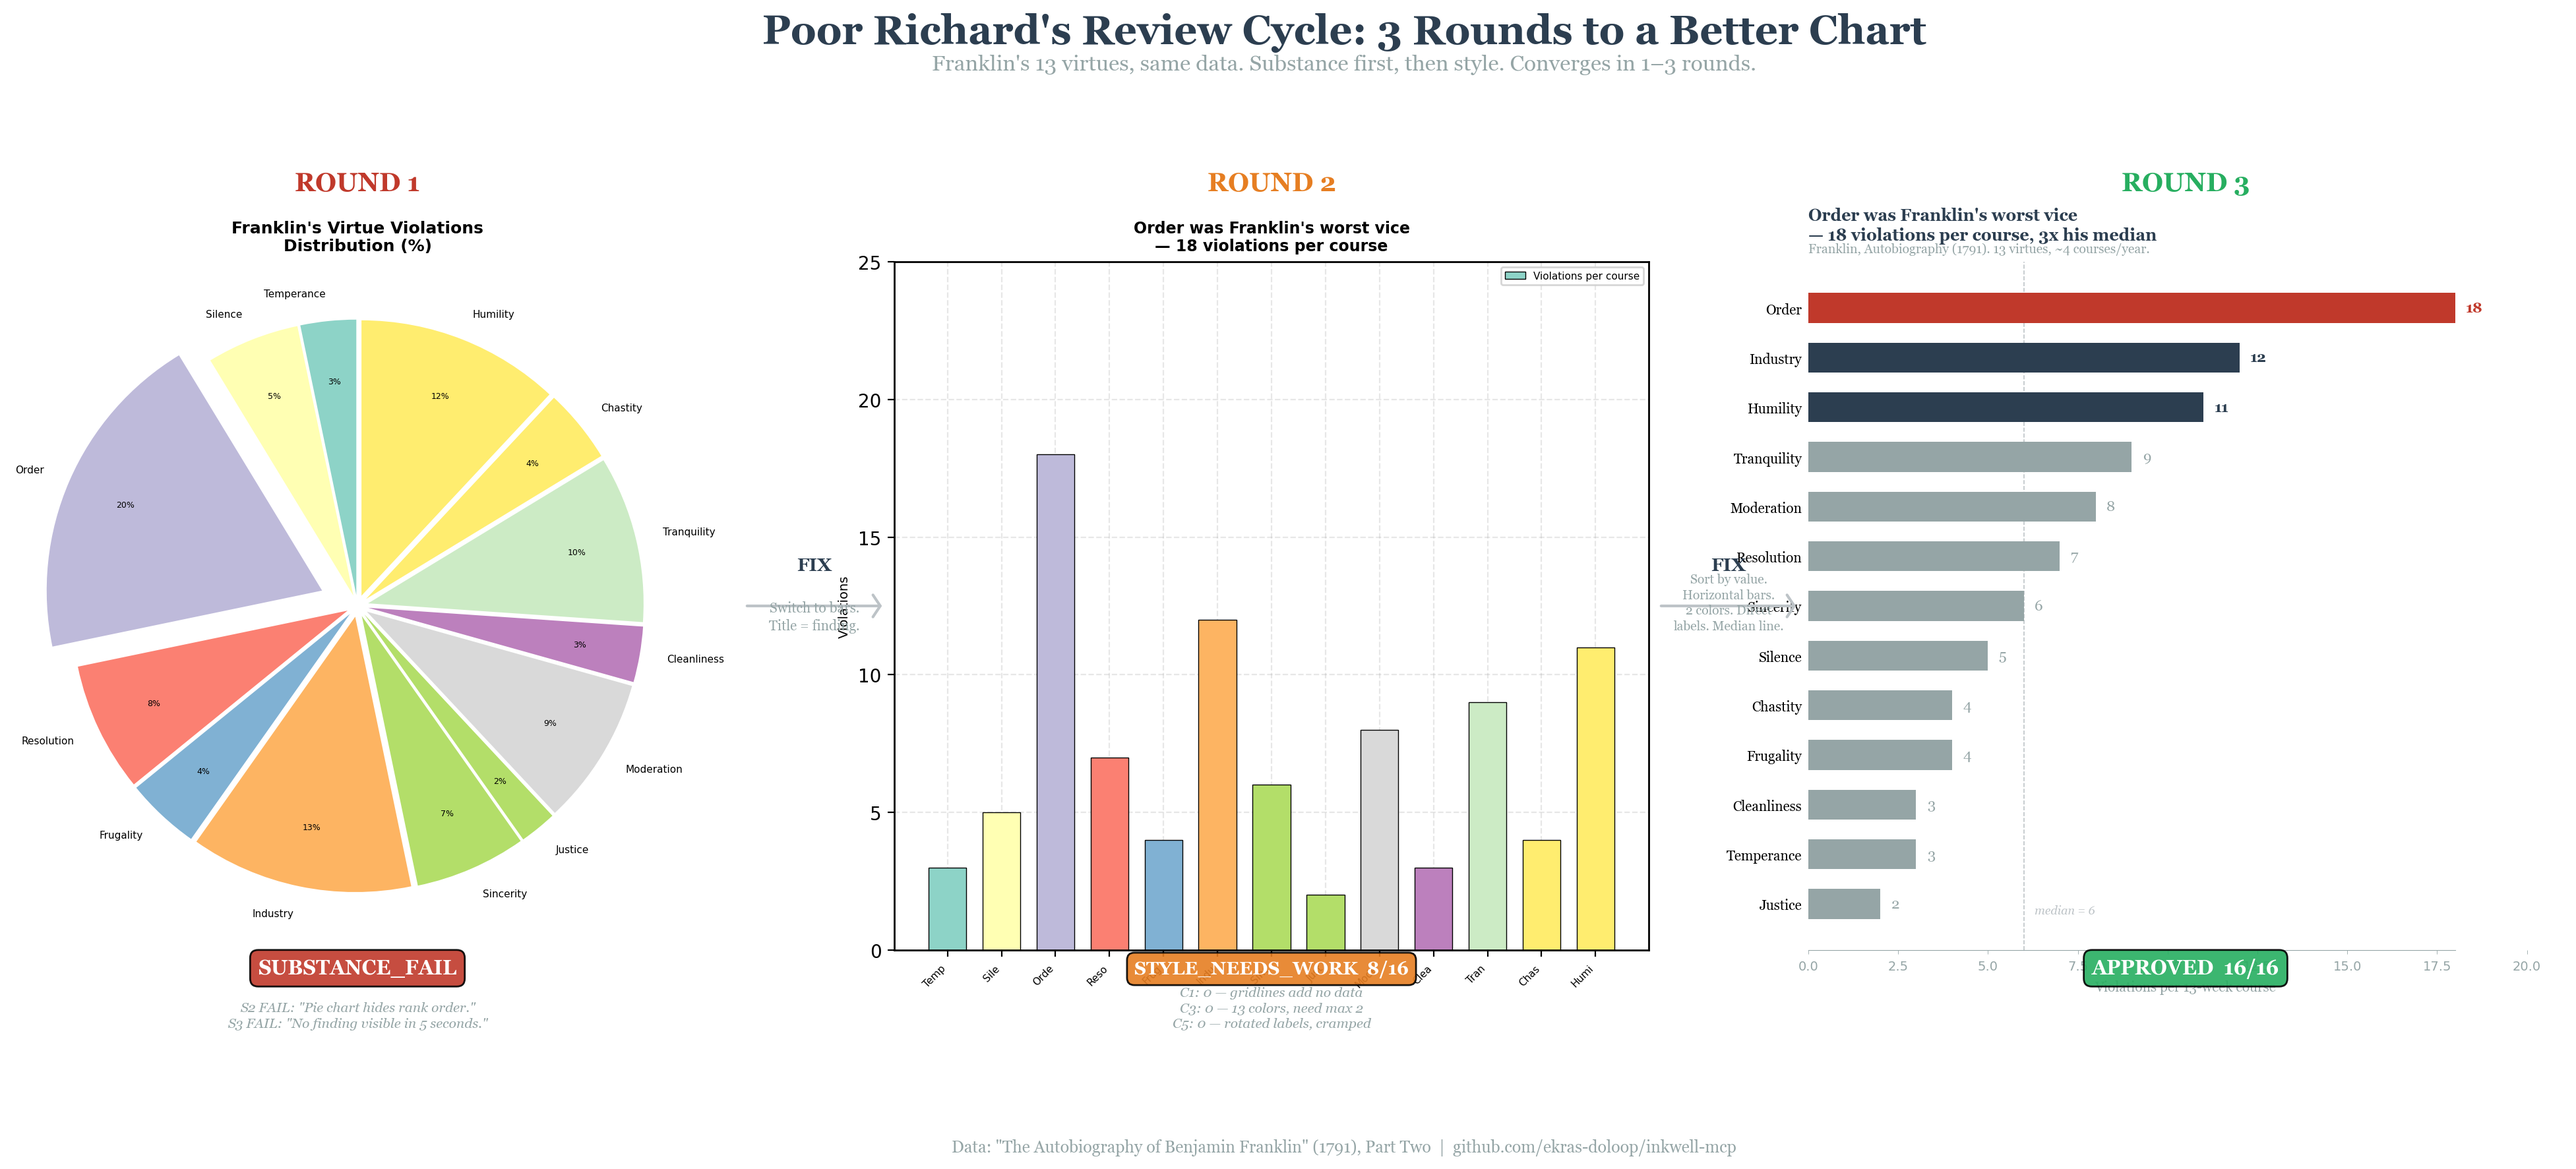
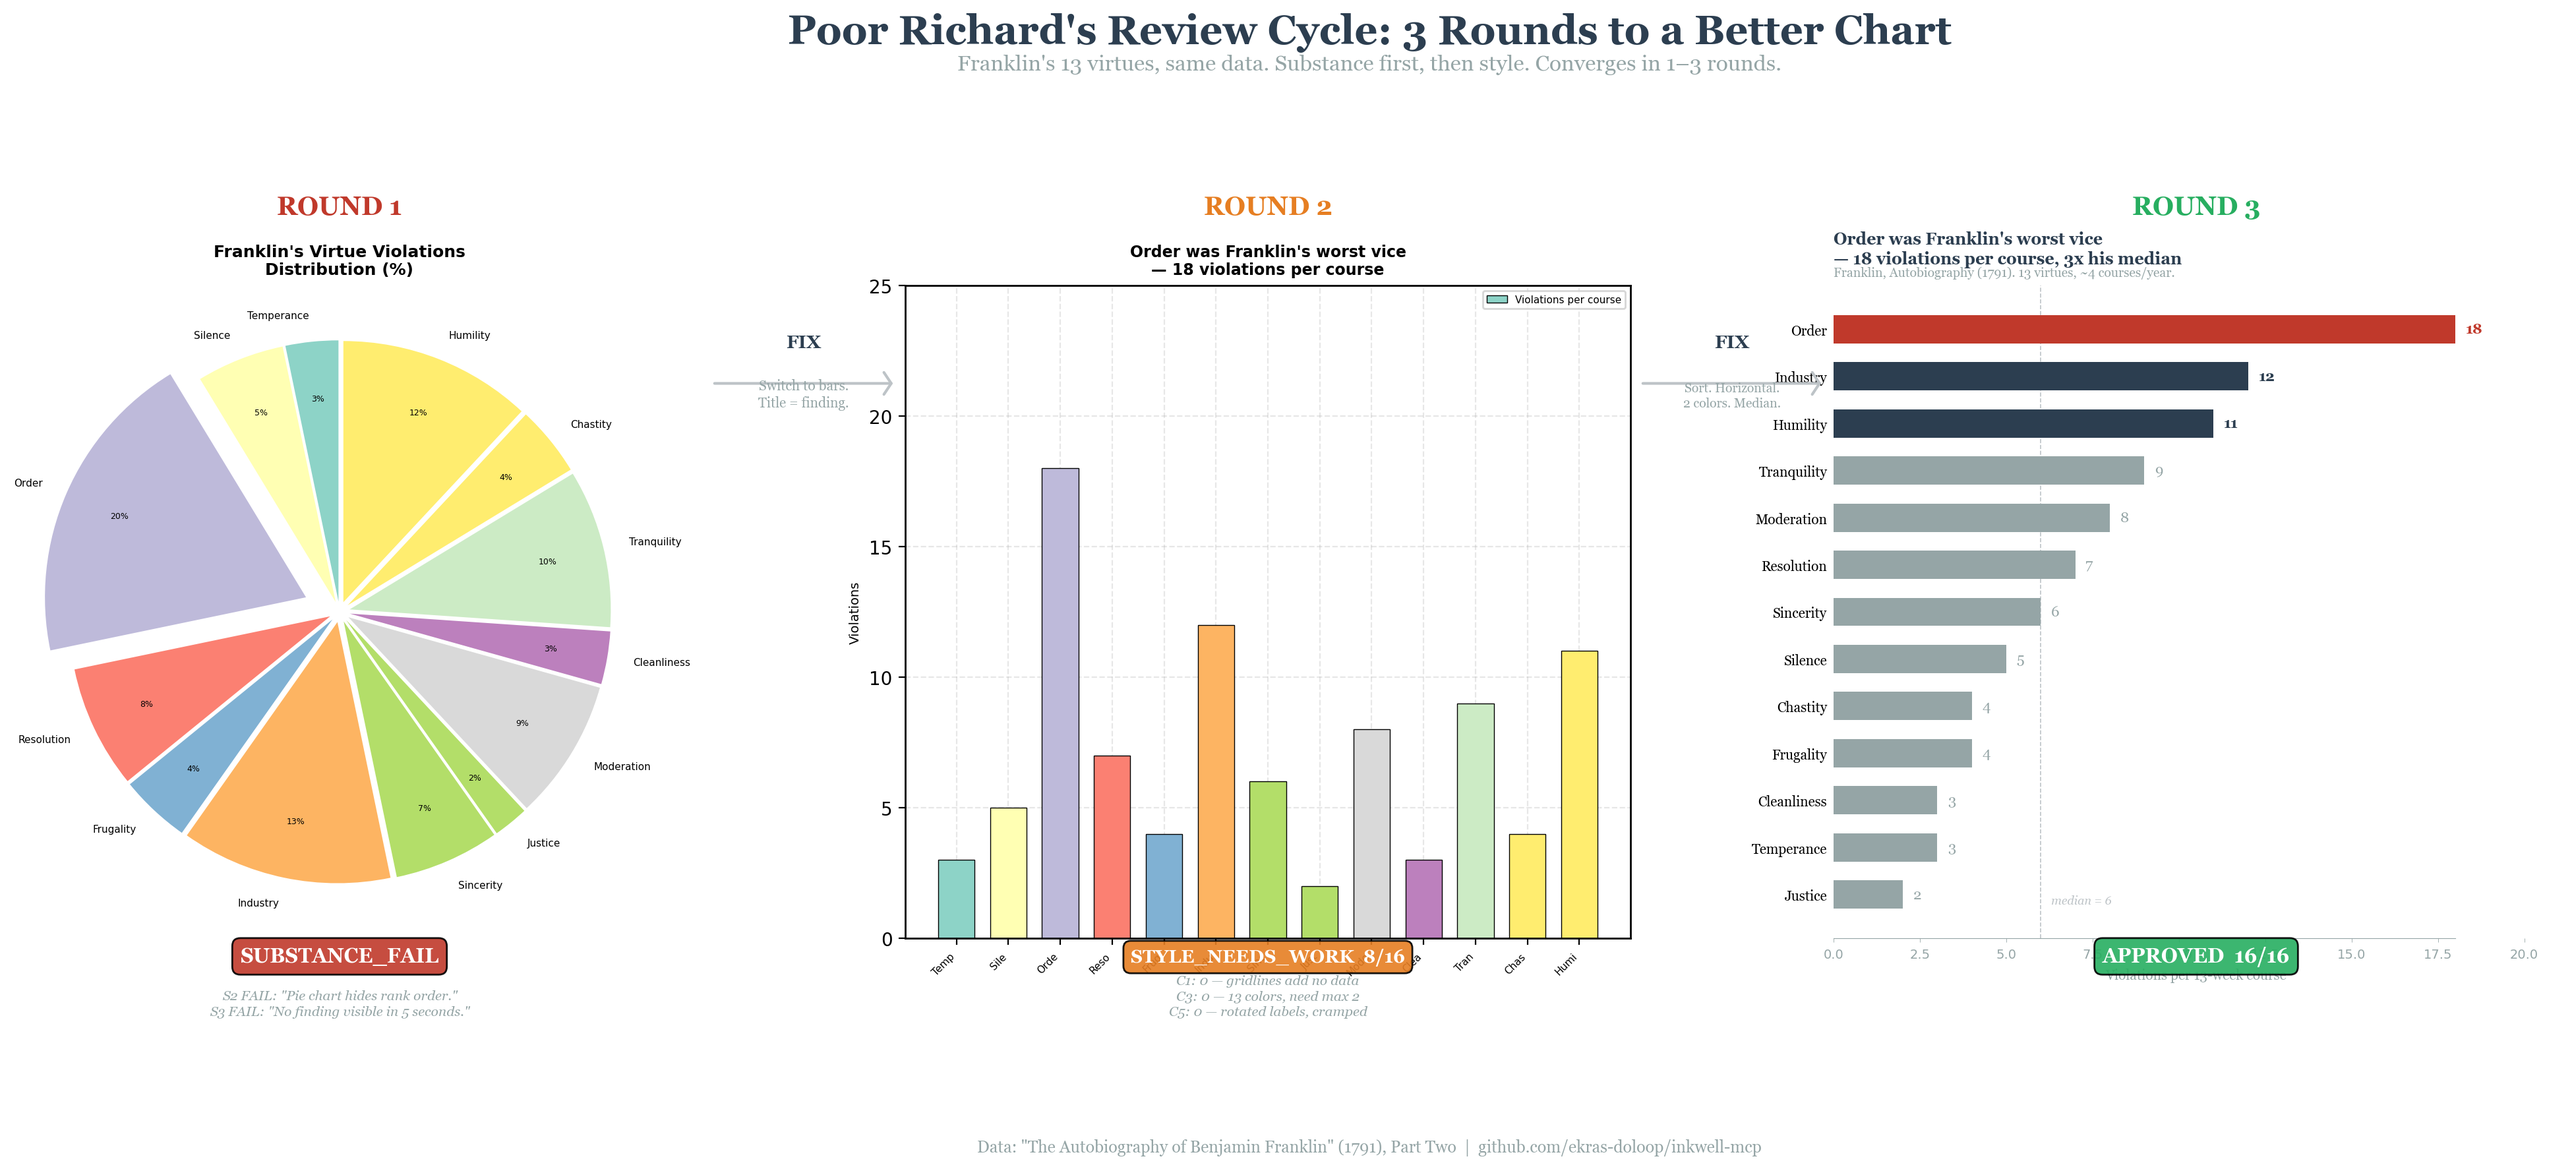
Fix overlaps in Poor Richard's review cycle: wider gaps, higher FIX labels, shorter text

diff --git a/examples/poor_richards_cycle.py b/examples/poor_richards_cycle.py
@@ -52,11 +52,11 @@ def review_cycle():
              fontsize=12, ha="center", va="top",
              color=MUTED, fontfamily="serif")
 
-    panel_w = 0.26
-    panel_h = 0.58
-    panel_y = 0.18
-    gap = 0.055
-    x_starts = [0.03, 0.03 + panel_w + gap, 0.03 + 2 * (panel_w + gap)]
+    panel_w = 0.25
+    panel_h = 0.55
+    panel_y = 0.19
+    gap = 0.07
+    x_starts = [0.02, 0.02 + panel_w + gap, 0.02 + 2 * (panel_w + gap)]
 
     # ══════════════════════════════════════════════════════════════════
     # ROUND 1: Exploded pie — SUBSTANCE_FAIL
@@ -95,12 +95,13 @@ def review_cycle():
              fontsize=7.5, color=MUTED, ha="center", fontfamily="serif",
              style="italic", linespacing=1.3)
 
-    # Fix label
+    # Fix label — positioned in upper third to avoid bar labels
     arrow_x = x_starts[0] + panel_w + gap / 2
-    fig.text(arrow_x, panel_y + panel_h / 2 + 0.03,
+    fix_y = panel_y + panel_h * 0.85
+    fig.text(arrow_x, fix_y + 0.03,
              "FIX", fontsize=10, fontweight="bold", color=INK,
              ha="center", fontfamily="serif")
-    fig.text(arrow_x, panel_y + panel_h / 2 - 0.02,
+    fig.text(arrow_x, fix_y - 0.02,
              "Switch to bars.\nTitle = finding.",
              fontsize=7.5, color=MUTED, ha="center", fontfamily="serif",
              linespacing=1.3)
@@ -144,13 +145,13 @@ def review_cycle():
              fontsize=7.5, color=MUTED, ha="center", fontfamily="serif",
              style="italic", linespacing=1.3)
 
-    # Fix label
+    # Fix label — positioned in upper third to avoid bar labels
     arrow_x2 = x_starts[1] + panel_w + gap / 2
-    fig.text(arrow_x2, panel_y + panel_h / 2 + 0.03,
+    fig.text(arrow_x2, fix_y + 0.03,
              "FIX", fontsize=10, fontweight="bold", color=INK,
              ha="center", fontfamily="serif")
-    fig.text(arrow_x2, panel_y + panel_h / 2 - 0.02,
-             "Sort by value.\nHorizontal bars.\n2 colors. Direct\nlabels. Median line.",
+    fig.text(arrow_x2, fix_y - 0.02,
+             "Sort. Horizontal.\n2 colors. Median.",
              fontsize=7, color=MUTED, ha="center", fontfamily="serif",
              linespacing=1.3)
 
@@ -222,7 +223,7 @@ def review_cycle():
     for i in range(2):
         x_from = x_starts[i] + panel_w + 0.003
         x_to = x_starts[i + 1] - 0.003
-        mid_y = panel_y + panel_h / 2
+        mid_y = panel_y + panel_h * 0.85
         arrow = FancyArrowPatch(
             (x_from, mid_y), (x_to, mid_y),
             transform=fig.transFigure,
